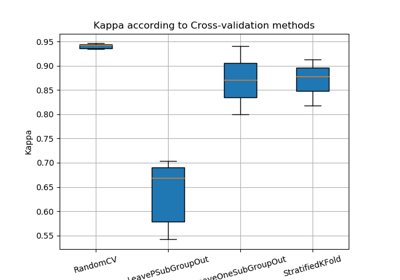
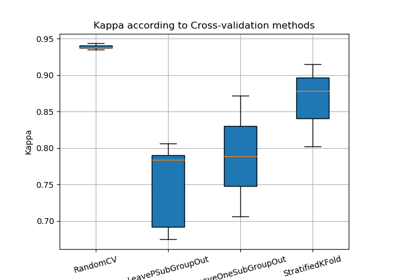
Change save and loadModel in learnAndPredict

Changed region(s): [[0.09, 0.1143, 0.87, 0.8571], [0.09, 0.6286, 0.39, 0.6857]]

diff --git a/museotoolbox/learnTools/__init__.py b/museotoolbox/learnTools/__init__.py
@@ -17,7 +17,7 @@ The :mod:`museotoolbox.learnTools` module gathers learn and predict functions.
 """
 from __future__ import absolute_import, print_function
 import numpy as np
-
+import pickle
 
 class learnAndPredict:
     def __init__(self, n_jobs=1, verbose=False):
@@ -212,19 +212,25 @@ class learnAndPredict:
 
     def saveModel(self, path):
         """
-        Save model to be load later via learnAndPredict.loadModel(path)
+        Save model 'myModel.npz' to be loaded later via learnAndPredict.loadModel(path)
 
         Parameters
         ----------
         path : str.
-            If path ends with npy, perfects, else will add '.npy' after your fileName.
+            If path ends with npz, perfects, else will add '.npz' after your fileName.
+            
+        Returns
+        -------
+        path : str.
+            Path and filename with mtb extension.
         """
-        if not path.endswith('.npy'):
-            path += '.npy'
+        if not path.endswith('npz'):
+            path+='.npz'
 
-        if self.scale:
-            np.save(path, [self.model, self.scaler])
-
+        np.savez_compressed(path,LAP=self.__dict__)
+        
+        return path
+    
     def loadModel(self, path):
         """
         Load model previously saved with learnAndPredict.saveModel(path)
@@ -234,22 +240,8 @@ class learnAndPredict:
         path : str.
             If path ends with npy, perfects, else will add '.npy' after your fileName.
         """
-        if not path.endswith('.npy'):
-            path += '.npy'
-
-        if self.scale:
-            self.scale = True
-            self.model, self.scaler = np.load(path)
-        else:
-            self.scale = False
-            self.model = np.load(path)
-
-        # if not self.scale but scale was used in a previous call of
-        # learnAndPredict
-        if self.scale is False:
-            if type(self.model[1]).__name__ == 'StandardScaler':
-                self.scale = True
-                self.model, self.scaler = np.load(path)
+        model = np.load(path)
+        self.__dict__.update(model['LAP'].tolist())
 
     def predictArray(self, X):
         """

diff --git a/examples/charts/plotConfusion.py b/examples/charts/plotConfusion.py
@@ -1,6 +1,6 @@
 # -*- coding: utf-8 -*-
 """
-Plot confusion matrix from Cross-Validation with F1
+Plot confusion matrix
 ========================================================
 
 Plot confusion matrix from Cross-Validation, with F1 as subplot.
@@ -25,7 +25,7 @@ field = 'Class'
 ##############################################################################
 # Create CV
 # -------------------------------------------
-RS50 = RandomCV(valid_size=0.5,n_splits=10,
+RS50 = RandomCV(valid_size=0.5,n_splits=2,
                 random_state=12,verbose=False)
 
 ##############################################################################
@@ -66,15 +66,15 @@ import numpy as np
 meanCM = np.mean(cms,axis=0)[0,:,:].astype(np.int16)
 pltCM = plotConfusionMatrix(meanCM.T) # Translate for Y = prediction and X = truth
 pltCM.addText()
-pltCM.addF1()
 pltCM.colorDiag()
 
 ##############################################################################
 # Plot confusion matrix and normalize per class
 # -----------------------------------------------
-
+from matplotlib.pyplot import cm as colorMap
 meanCM = meanCM.astype('float') / meanCM.sum(axis=1)[:, np.newaxis]*100
 pltCM = plotConfusionMatrix(meanCM.astype(int).T)
-pltCM.addText(alpha_zero=0.3) # in order to hide a little zero values
-pltCM.addF1()
-pltCM.colorDiag()
+pltCM.addText(alpha_zero=0.8) # in order to hide a little zero values
+pltCM.addXlabels(['One','Two','3','Four','Five!'],rotation=90,position='bottom')
+pltCM.addYlabels(['','','','','']) # to remove labels
+pltCM.colorDiag(diagColor=colorMap.Blues,matrixColor=colorMap.YlOrBr)

diff --git a/docs/source/auto_examples/learnTools/learnWithRFandCompareCV.py b/docs/source/auto_examples/learnTools/learnWithRFandCompareCV.py
@@ -12,7 +12,7 @@ This example shows how to make a classification with different cross-validation 
 # -------------------------------------------
 
 from museotoolbox.learnTools import learnAndPredict
-from museotoolbox.crossValidation import RandomCV,LeavePSubGroupOut,LeaveOneSubGroupOut
+from museotoolbox import crossValidation
 from museotoolbox import datasets
 from sklearn.ensemble import RandomForestClassifier
 from sklearn.model_selection import StratifiedKFold
@@ -35,7 +35,12 @@ classifier = RandomForestClassifier()
 # Create list of different CV
 # ---------------------------
 
-CVs = [RandomCV(),LeavePSubGroupOut(),LeaveOneSubGroupOut(),StratifiedKFold()]
+CVs = [crossValidation.RandomCV(),
+       crossValidation.LeavePSubGroupOut(),
+       crossValidation.LeaveOneSubGroupOut(),
+       StratifiedKFold() #from sklearn
+       ]
+
 kappas=[]
 
 LAP = learnAndPredict()
@@ -44,7 +49,7 @@ for cv in CVs :
         
     LAP.learnFromRaster(raster,vector,inField=field,inGroup=group,cv=cv,
                         classifier=classifier,param_grid=dict(n_estimators=[100,200]))
-    print('Kappa for '+str(type(RandomCV()).__name__))
+    print('Kappa for '+str(type(cv).__name__))
     cvKappa = []
     
     for kappa in LAP.getStatsFromCV(confusionMatrix=False,kappa=True):

diff --git a/examples/learnTools/learnWithRFandCompareCV.py b/examples/learnTools/learnWithRFandCompareCV.py
@@ -12,7 +12,7 @@ This example shows how to make a classification with different cross-validation 
 # -------------------------------------------
 
 from museotoolbox.learnTools import learnAndPredict
-from museotoolbox.crossValidation import RandomCV,LeavePSubGroupOut,LeaveOneSubGroupOut
+from museotoolbox import crossValidation
 from museotoolbox import datasets
 from sklearn.ensemble import RandomForestClassifier
 from sklearn.model_selection import StratifiedKFold
@@ -35,7 +35,12 @@ classifier = RandomForestClassifier()
 # Create list of different CV
 # ---------------------------
 
-CVs = [RandomCV(),LeavePSubGroupOut(),LeaveOneSubGroupOut(),StratifiedKFold()]
+CVs = [crossValidation.RandomCV(),
+       crossValidation.LeavePSubGroupOut(),
+       crossValidation.LeaveOneSubGroupOut(),
+       StratifiedKFold() #from sklearn
+       ]
+
 kappas=[]
 
 LAP = learnAndPredict()
@@ -44,7 +49,7 @@ for cv in CVs :
         
     LAP.learnFromRaster(raster,vector,inField=field,inGroup=group,cv=cv,
                         classifier=classifier,param_grid=dict(n_estimators=[100,200]))
-    print('Kappa for '+str(type(RandomCV()).__name__))
+    print('Kappa for '+str(type(cv).__name__))
     cvKappa = []
     
     for kappa in LAP.getStatsFromCV(confusionMatrix=False,kappa=True):

diff --git a/examples/learnTools/learnWithRFandRS50.py b/examples/learnTools/learnWithRFandRS50.py
@@ -67,7 +67,6 @@ LAP.predictRaster(raster,'/tmp/classification.tif')
 ##########################
 # Plot example
 
-
 from matplotlib import pyplot as plt
 import gdal
 src=gdal.Open('/tmp/classification.tif')

diff --git a/museotoolbox/__init__.py b/museotoolbox/__init__.py
@@ -15,4 +15,4 @@
 from __future__ import absolute_import
 from . import learnTools, vectorTools, rasterTools, crossValidation, datasets, stats, charts
 
-__version__ = "0.9.2"
+__version__ = "0.9.3"

diff --git a/docs/source/auto_examples/learnTools/learnWithRFandCompareCV.rst b/docs/source/auto_examples/learnTools/learnWithRFandCompareCV.rst
@@ -23,7 +23,7 @@ Import librairies
 
 
     from museotoolbox.learnTools import learnAndPredict
-    from museotoolbox.crossValidation import RandomCV,LeavePSubGroupOut,LeaveOneSubGroupOut
+    from museotoolbox import crossValidation
     from museotoolbox import datasets
     from sklearn.ensemble import RandomForestClassifier
     from sklearn.model_selection import StratifiedKFold
@@ -76,7 +76,12 @@ Create list of different CV
 .. code-block:: python
 
 
-    CVs = [RandomCV(),LeavePSubGroupOut(),LeaveOneSubGroupOut(),StratifiedKFold()]
+    CVs = [crossValidation.RandomCV(),
+           crossValidation.LeavePSubGroupOut(),
+           crossValidation.LeaveOneSubGroupOut(),
+           StratifiedKFold() #from sklearn
+           ]
+
     kappas=[]
 
     LAP = learnAndPredict()
@@ -85,7 +90,7 @@ Create list of different CV
         
         LAP.learnFromRaster(raster,vector,inField=field,inGroup=group,cv=cv,
                             classifier=classifier,param_grid=dict(n_estimators=[100,200]))
-        print('Kappa for '+str(type(RandomCV()).__name__))
+        print('Kappa for '+str(type(cv).__name__))
         cvKappa = []
     
         for kappa in LAP.getStatsFromCV(confusionMatrix=False,kappa=True):
@@ -110,33 +115,33 @@ Create list of different CV
     Fitting 5 folds for each of 2 candidates, totalling 10 fits
     best n_estimators : 200
     Kappa for RandomCV
-    [0.93436245774434634]
-    [0.94621220332623357]
-    [0.93581302375670561]
-    [0.94405558732289641]
-    [0.94271447809040321]
+    [0.93843898260126135]
+    [0.94339037465279474]
+    [0.94024976146049644]
+    [0.93710135986444798]
+    [0.93522537269928463]
     ====================
     Fitting 5 folds for each of 2 candidates, totalling 10 fits
-    best n_estimators : 100
-    Kappa for RandomCV
-    [0.54184032008011374]
-    [0.66814348715410654]
-    [0.57853143947863084]
-    [0.70313240488317963]
-    [0.69009827983969674]
+    best n_estimators : 200
+    Kappa for LeavePSubGroupOut
+    [0.78341345616606617]
+    [0.79025917043382066]
+    [0.67470876485590259]
+    [0.6921385241270821]
+    [0.80627260898424413]
     ====================
     Fitting 2 folds for each of 2 candidates, totalling 4 fits
     best n_estimators : 100
-    Kappa for RandomCV
-    [0.79997587565146144]
-    [0.940662988056157]
+    Kappa for LeaveOneSubGroupOut
+    [0.87147447380292964]
+    [0.70621933864930497]
     ====================
     Fitting 3 folds for each of 2 candidates, totalling 6 fits
     best n_estimators : 100
-    Kappa for RandomCV
-    [0.91344604836722598]
-    [0.8784355766013372]
-    [0.81746302313842245]
+    Kappa for StratifiedKFold
+    [0.91496595789947011]
+    [0.87849823025185492]
+    [0.80183465062844717]
     ====================
 
 
@@ -164,7 +169,7 @@ Plot example
 
 
 
-**Total running time of the script:** ( 0 minutes  30.461 seconds)
+**Total running time of the script:** ( 0 minutes  50.274 seconds)
 
 
 .. _sphx_glr_download_auto_examples_learnTools_learnWithRFandCompareCV.py:

diff --git a/docs/source/auto_examples/index.rst b/docs/source/auto_examples/index.rst
@@ -2,10 +2,10 @@
 
 .. _museotoolbox:
 
-MuseoToolBox
+Gallery
 -----------------------
 
-Examples related to  :mod:`museotoolbox` librairie.
+Here you will find all the examples related to  :mod:`museotoolbox` librairy.
 
 
 
